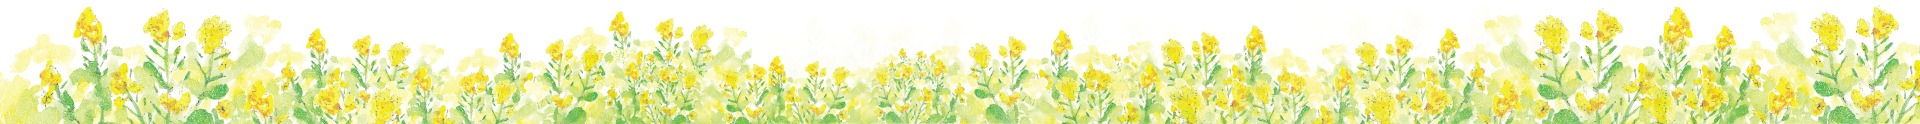
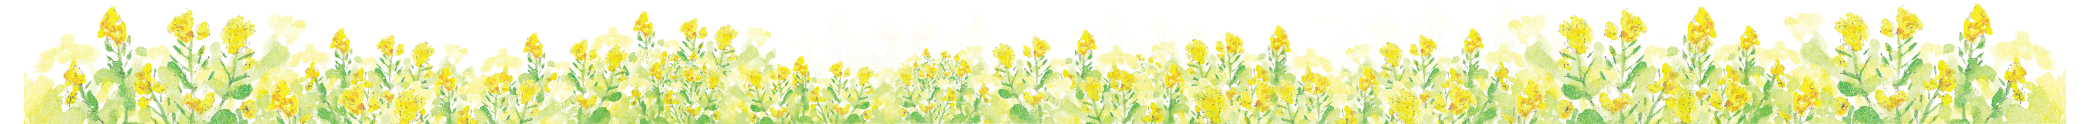
footer location

diff --git a/vue/src/components/Location.vue b/vue/src/components/Location.vue
@@ -65,44 +65,46 @@
     </div>
 
   <div class="bus_wrapper">
-  <h3>하객버스 안내</h3>
-  
+    <h3>하객버스 안내</h3>
   </div>
 
-    <div>
-      
-      <vs-row
-        vs-align="center"
+    <vs-row
+      vs-align="center"
+      vs-justify="center"
+    >
+      <vs-col
         vs-justify="center"
+        vs-align="center"
+        vs-lg="4"
+        vs-sm="4"
+        vs-xs="8"
       >
-        <vs-col
-          vs-justify="center"
-          vs-align="center"
-          vs-lg="2"
-          vs-sm="4"
-          vs-xs="8"
-        >
-          <h3>&#9702; 서울 &#10140; 예식장</h3>
-          <p>시간 : 4월 10일 9:00 AM</p>
-          <p>장소 : 잠실역 4번 출구 방면 롯데월드<br>&nbsp;&nbsp;&nbsp;&nbsp;&nbsp;&nbsp;&nbsp; 제타플렉스점 앞</p>
-          
-        </vs-col>
-        <div class="location_margin">
-        <vs-col
-          vs-justify="center"
-          vs-align="center"
-          vs-lg="3"
-          vs-sm="4"
-          vs-xs="8"
-        >
-          <h3>&#9702; 예식장 &#10140; 서울</h3>
-          <p>시간 : 4월 10일 14:00 PM</p>
-          <p>장소 : 숲속웨딩공원 주차장</p>
-          <p><br></p>
-          
-        </vs-col>
-      </vs-row>
-    </div>
+        <h3>&#9702; 서울 &#10140; 예식장</h3>
+        <p>시간 : 4월 10일 9:00 AM</p>
+        <p>장소 : 잠실역 4번 출구 방면 롯데월드 제타플렉스점 앞</p>
+        <p><br></p>
+        
+      </vs-col>
+    </vs-row>
+
+    <vs-row
+      vs-align="center"
+      vs-justify="center"
+    >
+      <vs-col
+        vs-justify="center"
+        vs-align="center"
+        vs-lg="4"
+        vs-sm="4"
+        vs-xs="8"
+      >
+        <h3>&#9702; 예식장 &#10140; 서울</h3>
+        <p>시간 : 4월 10일 14:00 PM</p>
+        <p>장소 : 숲속웨딩공원 주차장</p>
+        <p><br></p>
+        
+      </vs-col>
+    </vs-row>
 
 
     <!-- <Button
@@ -191,25 +193,23 @@ Goesan-gun, Chungcheongbuk-do`,
   },
   computed: {
     lang() {
-      // Parse query : https://stackoverflow.com/questions/35914069/how-can-i-get-query-parameters-from-a-url-in-vue-js
-      let uri = window.location.search.substring(1); 
-      let params = new URLSearchParams(uri);
-      var langQuery = params.get("lang");
-
-      const langOptions = ["kr", "en", "th", "jp"];
-      
+      var langOptions = ["kr", "en", "th", "jp"];
+      var langQuery = this.$route.query.lang;
       if (!langOptions.includes(langQuery)) {
         langQuery = 'kr'
       }
-
       return langQuery
-    },
+    }
   },
 };
 </script>
 
 
 <style scoped>
+
+h3, p{
+  text-align: center;
+}
 .content {
   display: flex;
   flex-wrap: wrap;
@@ -325,12 +325,6 @@ span:hover:after {
 }
 
 .bus_wrapper{
-
-  display: inline-block;
-}
-
-.location_margin{
-
-  
+  margin-bottom: 16px;
 }
 </style>

diff --git a/vue/src/components/Footer.vue b/vue/src/components/Footer.vue
@@ -17,8 +17,9 @@ export default {
 
 footer { 
   display: inline-block; 
-  background-image: url("../assets/img/footer.png");
-  background-repeat: no-repeat;
+  background: 
+    url("../assets/img/footer.png") 0 100% repeat-x,
+    url("../assets/img/footer.png") 75px 100% repeat-x;
   background-position: bottom;
   width: 100%;
   height: auto;
